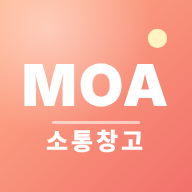
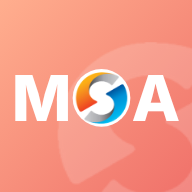
앱 아이콘: MOA (O 자리 심볼, 흰 원) + 바탕 워터마크 / 홈 화면 앱 이름 '소통창고' / 안드로이드용 여백 아이콘 추가
Claude-Session: https://claude.ai/code/session_01WnRVds5Vd9abyHj35Nw81E

diff --git a/index.html b/index.html
@@ -5,14 +5,14 @@
 <meta name="viewport" content="width=device-width, initial-scale=1, viewport-fit=cover">
 <meta name="robots" content="noindex,nofollow,noarchive">
 <meta name="referrer" content="no-referrer">
-<title>MOA · 부산동부지사</title>
+<title>소통창고 MOA · 부산동부지사</title>
 <link rel="manifest" href="manifest.webmanifest">
 <meta name="theme-color" content="#6D28D9">
 <meta name="apple-mobile-web-app-capable" content="yes">
 <meta name="apple-mobile-web-app-status-bar-style" content="black-translucent">
-<meta name="apple-mobile-web-app-title" content="MOA">
-<link rel="apple-touch-icon" href="apple-touch-icon.png?v=5">
-<link rel="icon" href="icon-192.png?v=5">
+<meta name="apple-mobile-web-app-title" content="소통창고">
+<link rel="apple-touch-icon" href="apple-touch-icon.png?v=6">
+<link rel="icon" href="icon-192.png?v=6">
 <script src="vendor/firebase-app-compat.js"></script>
 <script src="vendor/firebase-auth-compat.js"></script>
 <script src="vendor/firebase-firestore-compat.js"></script>
